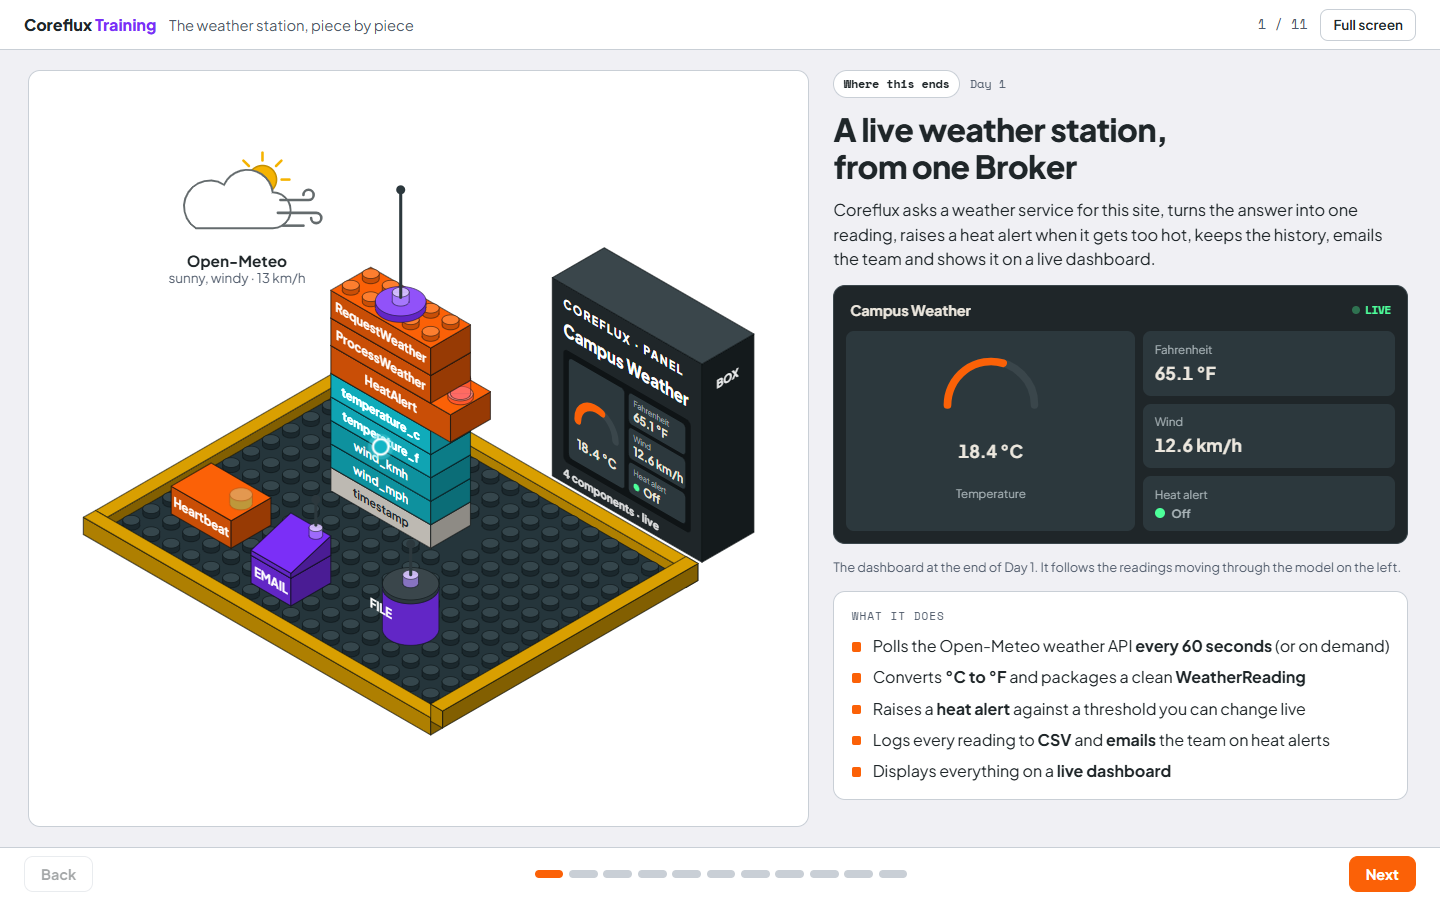
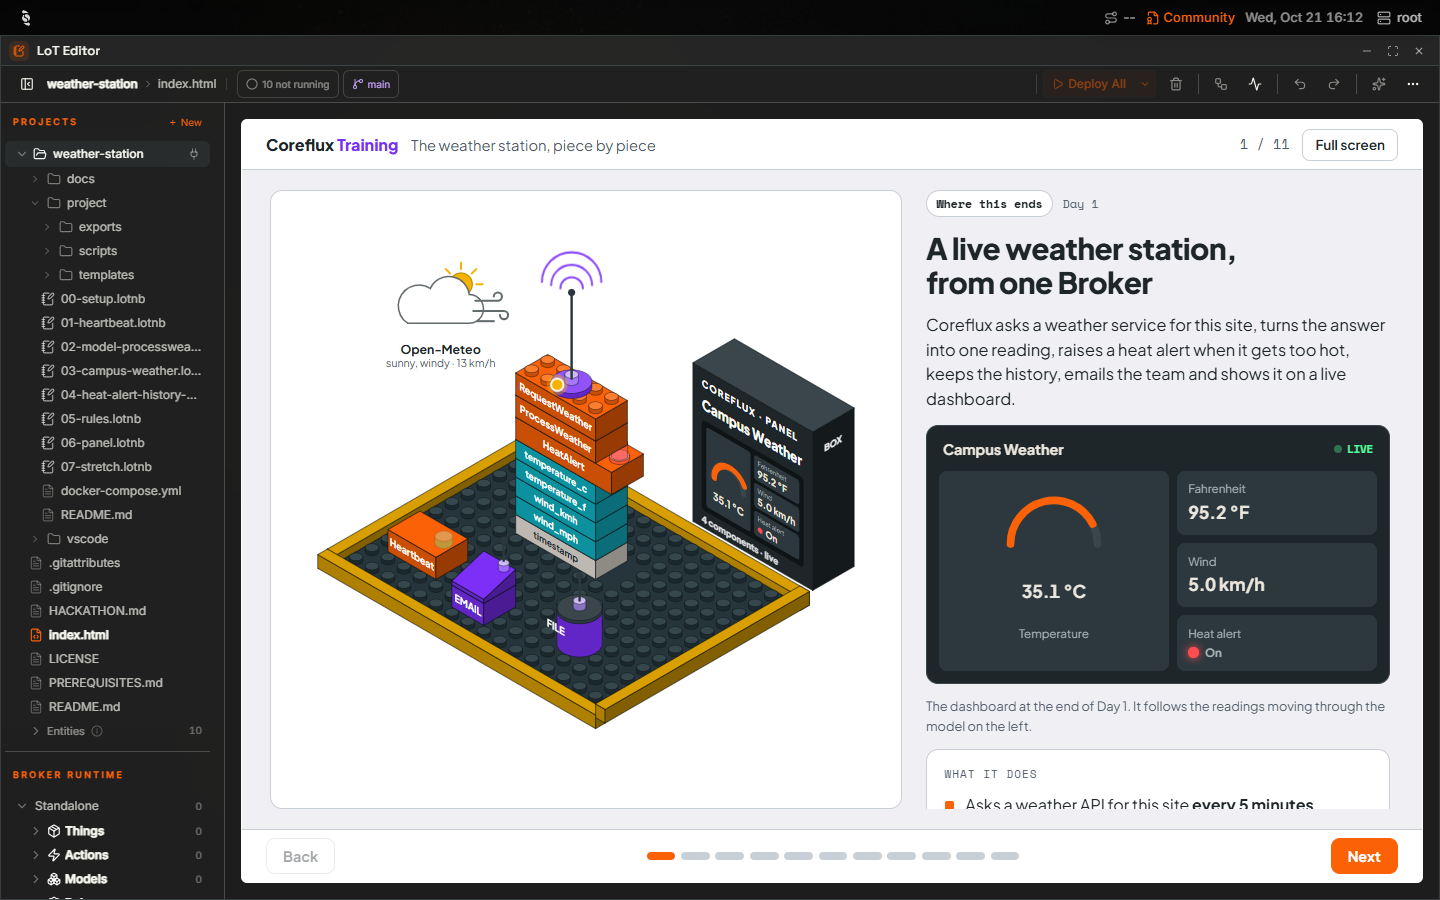
Fix the project loader and open the lesson with a pull.
- .gitattributes keeps *.sh as LF. On Windows (core.autocrlf=true)
  load-project.sh was checked out with CRLF and sh stopped at `set -u`.
- The loader only adds the project. -loadProject deployed every lab at
  start; the labs deploy cell by cell. The HUB lists a broker project's
  files only after "Pull project from broker", so HACKATHON.md has a new
  step 2.3 for it (with screenshots), and project/README.md and
  index.html say the same.
- The concepts page (index.html) also opens from the LoT Editor tree.

diff --git a/index.html b/index.html
@@ -290,7 +290,7 @@ code { font-family: var(--mono); font-size: 0.84em; background: var(--sunk); pad
           </ul>
         </div>
         <div class="code"><span class="code-label">terminal</span><pre><code>cd project&#10;docker compose up -d&#10;docker compose wait load-project</code></pre></div>
-        <p class="note">Once <code>load-project</code> finishes, all 8 lab notebooks are ready in the HUB's <b>LoT Editor</b>.</p>
+        <p class="note">Once <code>load-project</code> finishes, the <code>weather-station</code> project is on the Broker. In the HUB's <b>LoT Editor</b>, right-click it → <b>Pull project from broker</b> and the 8 lab notebooks appear.</p>
       </section>
 
       <section class="step" data-focus="topics" data-name="Topics" hidden>

diff --git a/HACKATHON.md b/HACKATHON.md
@@ -79,10 +79,15 @@ Coreflux is an **MQTT broker** with a built-in programming language called **LoT
 
 Optional, and you can come back to it at any time. [`index.html`](index.html) is an interactive, 11-slide visual overview of how all the pieces of the weather station fit together.
 
-**To open it:** once you have downloaded this repository ([Step 1.2](#12-download-this-repository)), open `index.html` from your local copy in any browser. Use the **Next** / **Back** buttons or your left/right arrow keys, and **Full screen** at the top right for a larger view.
+**To open it**, either:
 
-![The platform overview, slide 1](docs/screenshots/44-index-concepts.png)
-*The platform overview (`index.html`), slide 1: the finished weather station.*
+- in the HUB, after [Step 2.3](#23-open-the-lesson-in-the-lot-editor): click **`index.html`** in the LoT Editor tree, or
+- once you have downloaded this repository ([Step 1.2](#12-download-this-repository)): open `index.html` from your local copy in any browser.
+
+Use the **Next** / **Back** buttons or your left/right arrow keys, and **Full screen** at the top right for a larger view.
+
+![The platform overview in the LoT Editor, slide 1](docs/screenshots/44-index-concepts.png)
+*The platform overview (`index.html`) in the LoT Editor, slide 1: the finished weather station.*
 
 | Slide | Concept | How it is used in your weather station |
 |---|---|---|
@@ -132,7 +137,7 @@ docker compose wait load-project
 
 **What just happened?**
 1. `docker compose up -d` started the **Coreflux Broker** (v2.22+), **Coreflux HUB** (v2.12+), and **Mailpit** (a local test email server).
-2. `docker compose wait load-project` waited for a helper container to load this repository into the broker as a project named **`weather-station`**, so all the lab notebooks are ready for you inside the HUB.
+2. `docker compose wait load-project` waited for a helper container to add this repository to the broker as a project named **`weather-station`**. Nothing is deployed yet: you open the notebooks in the HUB in [Step 2.3](#23-open-the-lesson-in-the-lot-editor) and deploy each piece yourself in the labs.
 
 | Service | Where to open it | Credentials / Notes |
 |---|---|---|
@@ -177,6 +182,27 @@ Spot two areas on the screen:
 
 ![Account menu](docs/screenshots/28-account-menu.png)
 *5. Click `root` at the top right to open **Command Console**, **Broker Settings**, and **Log out**.*
+
+</details>
+
+### 2.3 Open the lesson in the LoT Editor
+
+The lesson is stored on the broker as the project **`weather-station`**. Bring its files into the editor once:
+
+1. Click **LoT Editor** in the bottom dock.
+2. Under **Projects**, right-click **`weather-station`** and click **Pull project from broker**.
+3. The project's files appear in the tree: `project/` with the lab notebooks, `index.html` and the guides. `00-setup` opens. The header shows `10 not running`: nothing is deployed until you run the cells in the labs.
+
+Do **not** click **Activate** on the project: that deploys every lab at once.
+
+<details>
+<summary><strong>📸 Screenshots: Opening the lesson</strong></summary>
+
+![Pull project from broker](docs/screenshots/45-pull-project-menu.png)
+*1. Right-click `weather-station` under **Projects** → **Pull project from broker**.*
+
+![The lesson in the LoT Editor](docs/screenshots/46-lesson-pulled.png)
+*2. The files are in the tree and `00-setup` opens. `10 not running` means nothing is deployed yet.*
 
 </details>
 
@@ -243,7 +269,7 @@ Your weather station needs coordinates to query and an initial heat threshold in
 
 ## 6. Step 4: Build the station (Labs 1–6)
 
-Open **LoT Editor** from the bottom dock. Under `weather-station` → `project/`, you will see the lab notebooks (`01-heartbeat` through `07-stretch`).
+Open **LoT Editor** from the bottom dock. Under `weather-station` → `project/`, you will see the lab notebooks (`01-heartbeat` through `07-stretch`). If the tree only shows **Entities**, pull the project first ([Step 2.3](#23-open-the-lesson-in-the-lot-editor)).
 
 ### How to work with notebooks in the LoT Editor
 
@@ -253,7 +279,7 @@ Open **LoT Editor** from the bottom dock. Under `weather-station` → `project/`
   - Click **Deploy All** at the top-right of the notebook to deploy all cells in that notebook from top to bottom.
   - Each cell shows a green confirmation (*`… added successfully`*) when deployed.
 - **If you edit a cell:** Just click **▷** again — the broker updates the Action, Model, Connector, Rule, or Panel in place.
-- **Important:** Do **not** use *Push project to broker* in the project menu; run cells with **▷** or **Deploy All** as you progress through each lab.
+- **Important:** Do **not** use *Push project to broker* or *Activate* in the project menu; run cells with **▷** or **Deploy All** as you progress through each lab.
 
 | Lab | Notebook | What you deploy |
 |---|---|---|

diff --git a/README.md b/README.md
@@ -37,7 +37,7 @@ All inside a single **Coreflux Broker**, your weather station will:
 |---|---|
 | **[PREREQUISITES.md](PREREQUISITES.md)** | **Prerequisites.** Installing and verifying Docker and Docker Compose before the workshop. |
 | **[HACKATHON.md](HACKATHON.md)** | **Main workshop guide.** Start-to-finish instructions, concepts, lab steps, screenshots, and troubleshooting. |
-| **[index.html](index.html)** | **Interactive visual overview.** Animated slides explaining every Coreflux concept used in the labs. Open it directly in your browser. |
+| **[index.html](index.html)** | **Interactive visual overview.** Animated slides explaining every Coreflux concept used in the labs. Open it in the HUB's LoT Editor or directly in your browser. |
 | **[project/](project/)** | The 8 lab notebooks (`00-setup.lotnb` – `07-stretch.lotnb`), `docker-compose.yml`, HTML email template, and `exports/` folder. |
 | **[project/README.md](project/README.md)** | **Quick reference & cheat sheet** for commands, environment variables, licensing, and resets. |
 | **[vscode/README.md](vscode/README.md)** | Optional guide if you prefer running the `.lotnb` notebooks in **VS Code** instead of the HUB. |

diff --git a/project/README.md b/project/README.md
@@ -89,7 +89,7 @@ In **Data Viewer → Publish** (paper-plane icon):
 
 ## 4. Lab notebooks overview
 
-When `load-project` finishes at startup, the `weather-station` project is already open in **LoT Editor** with all 8 notebooks under `project/`:
+When `load-project` finishes at startup, the broker holds the `weather-station` project (added with `-addProject`, not loaded, so nothing is deployed). In **LoT Editor**, right-click `weather-station` → **Pull project from broker** once; the 8 notebooks then appear under `project/`:
 
 | Notebook | Lab | What is inside |
 |---|---|---|
